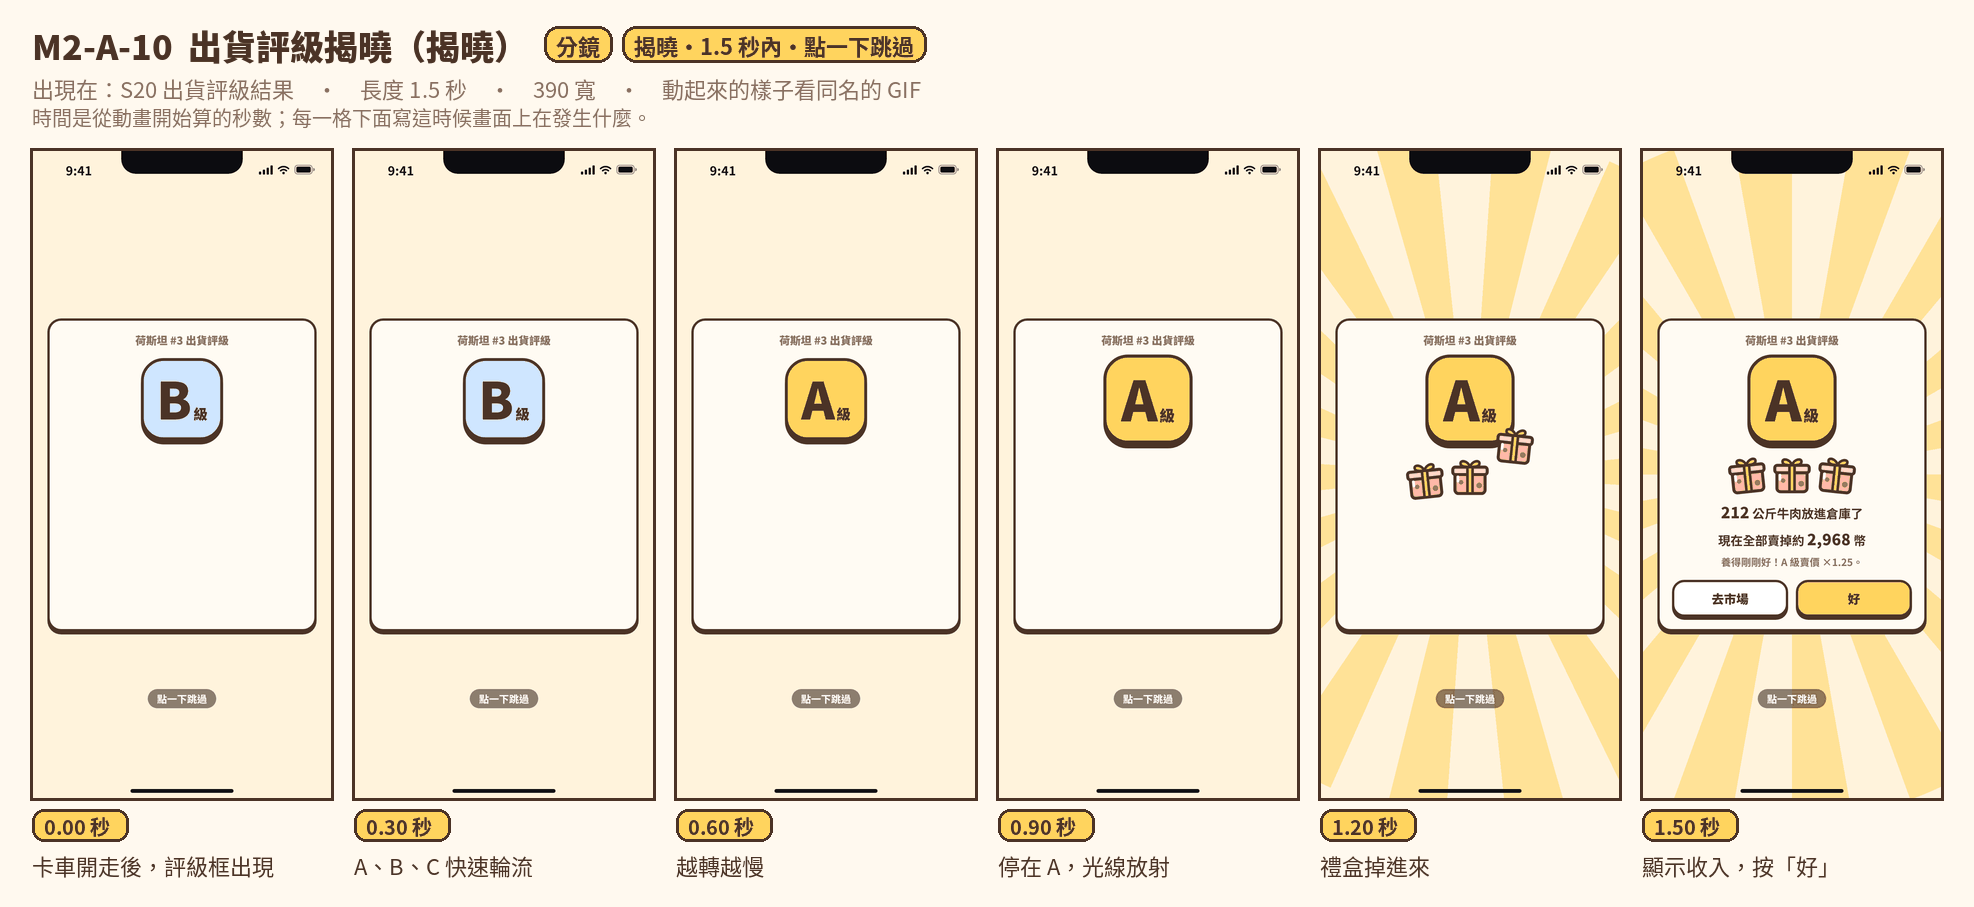
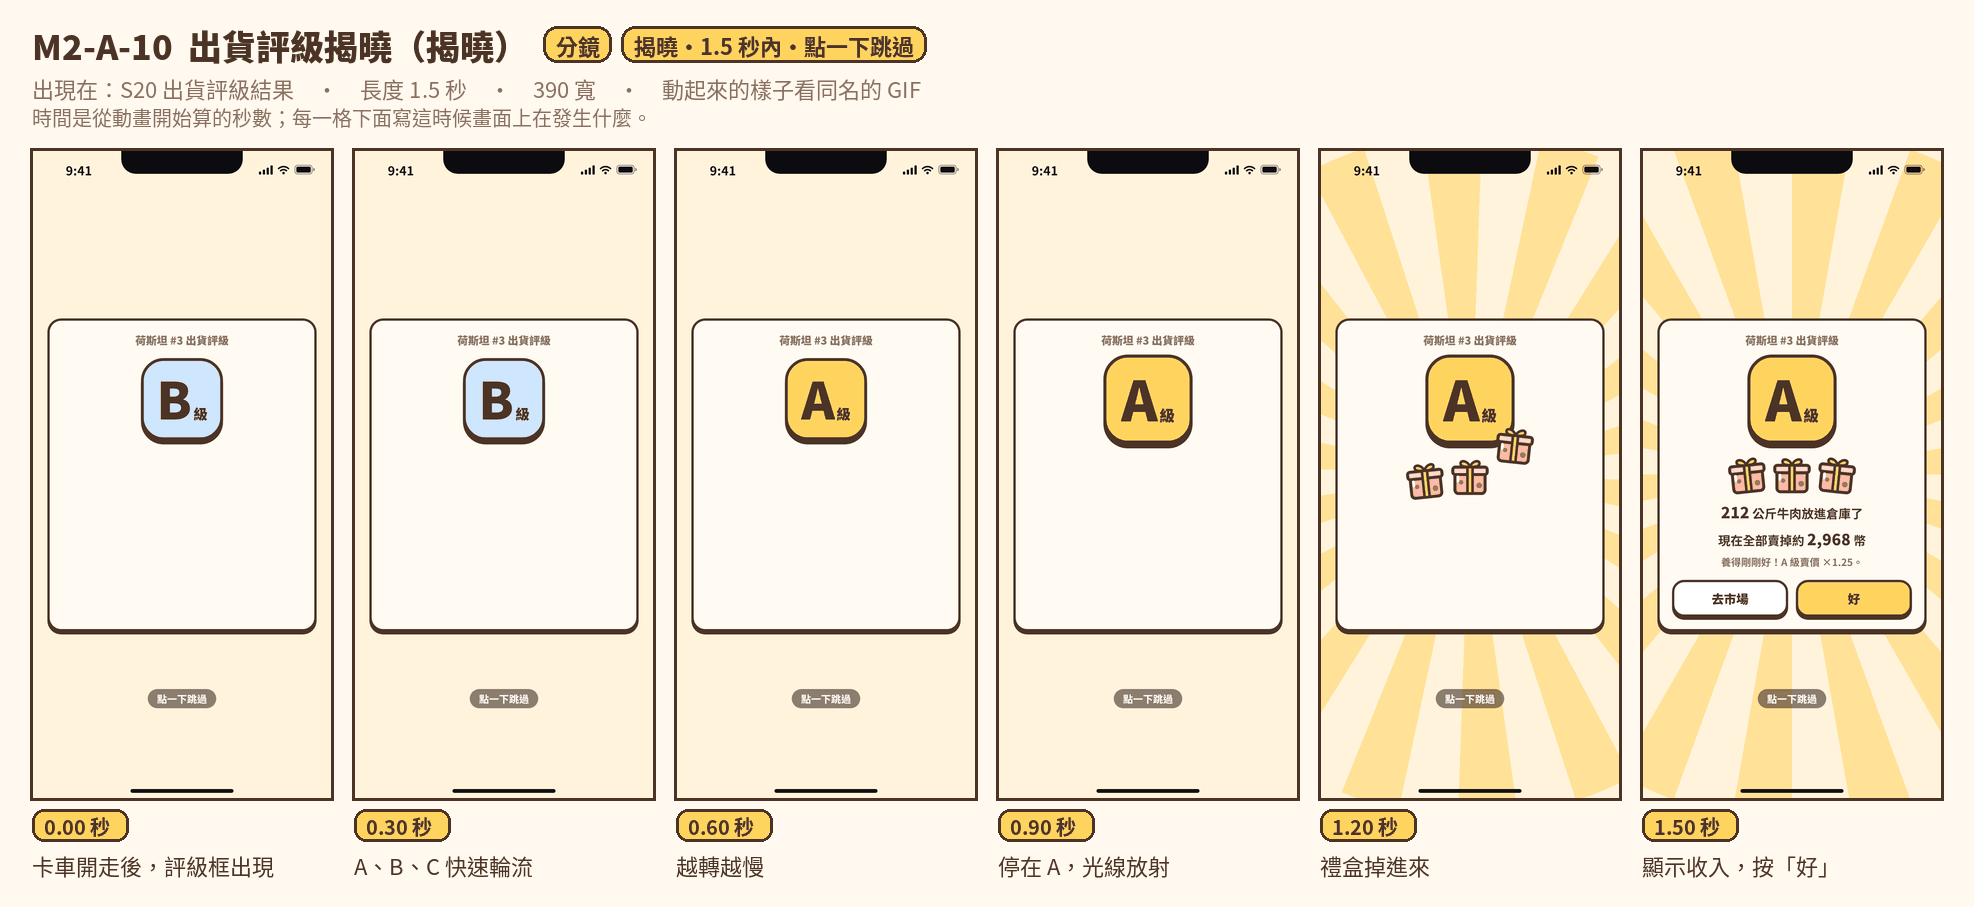
A-10 出貨評級揭曉：光線最後一格轉到 40°（一條 20°，轉整數條），停下來跟 S20-01 一樣（以前停在 30°，差半條）；scope.md 寫上還沒發現的品種（S09-04）不放配種表

Changed region(s): [[0.6489, 0.1544, 0.9889, 0.8953]]

diff --git a/design/m2/src/js/anims.js b/design/m2/src/js/anims.js
@@ -403,7 +403,8 @@ const A10 = {
     big.style.transform = `scale(${t < 0.9 ? 0.92 : 1 + 0.18 * Math.sin(Math.PI * land)})`;
     const burst = root.querySelector('.burst');
     burst.style.opacity = seg(t, 0.9, 1.05);
-    burst.style.transform = `scale(${0.4 + 0.6 * outCubic(seg(t, 0.9, 1.3))}) rotate(${t * 20}deg)`;
+    // 光線一條 20°（.burst 的 repeating-conic-gradient）：最後一格轉到 40°（整數條），停下來跟 S20-01 一樣（2026-10-09 cow-app 量到以前停在 30°，差半條）
+    burst.style.transform = `scale(${0.4 + 0.6 * outCubic(seg(t, 0.9, 1.3))}) rotate(${(t / 1.5) * 40}deg)`;
     [...root.querySelectorAll('.gift-box')].forEach((b, i) => {
       const k = seg(t, 1.0 + i * 0.08, 1.3 + i * 0.08);
       b.style.opacity = k > 0 ? 1 : 0;

diff --git a/design/m2/scope.md b/design/m2/scope.md
@@ -385,7 +385,7 @@
   - 用表上沒有的配法配出來的，加在最後面：淡黃底，後面寫「表上沒有的配法」。所以表會越來越長。
   - 借種也算（爸爸是借來的公牛那個品種）；商店抽的、小遊戲抓的沒有爸媽，不算。
   - 右上角「解鎖 n / 全部」，全部是代表配法加上表上沒有的。
-  - cow-ui 提案：還沒發現的品種（S09-04）不放配種表，只放剪影和提示，等 ceo 定。特殊牛沒有配種表（特殊不會遺傳），改寫「在抓牛小遊戲遇到」，跟特殊牛一起畫。
+  - 還沒發現的品種（S09-04）不放配種表，只放剪影和提示（ceo 2026-10-09 定，照 cow-ui 的提案）。特殊牛沒有配種表（特殊不會遺傳），改寫「在抓牛小遊戲遇到」，跟特殊牛一起畫。
 - 「其他」那一格（雜種牛，v0.3）：三頭牛並排、名字在右邊；寬度小於 390 時名字換到三頭牛下面（英文、泰文的名字放不下右邊）。
 
 ### S10 商店（設施升級、擴建）
